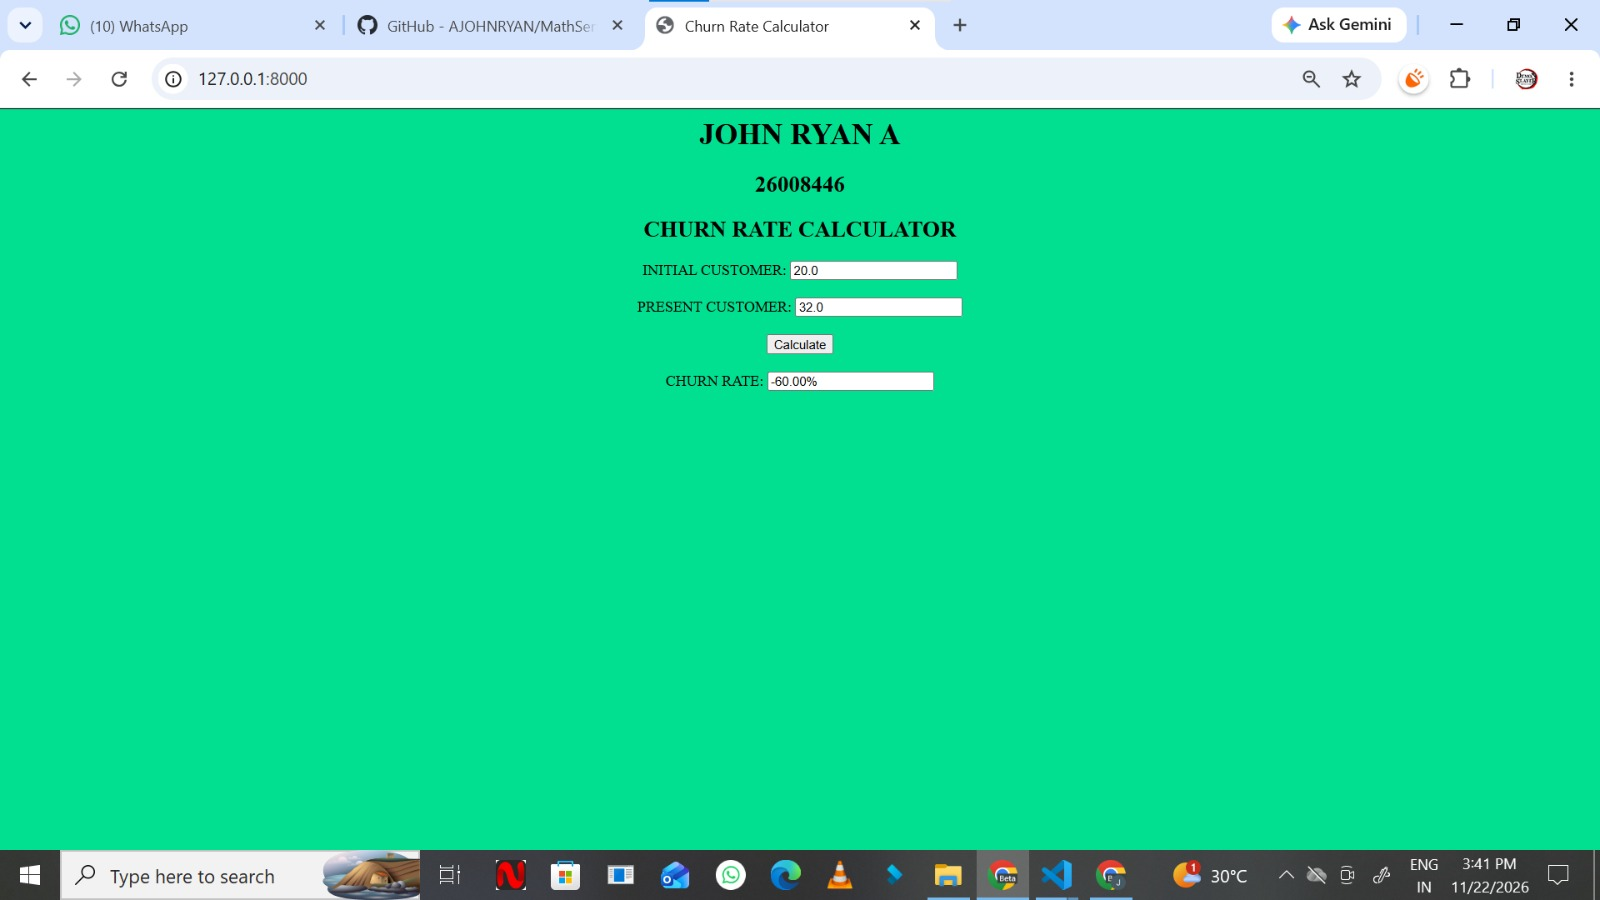
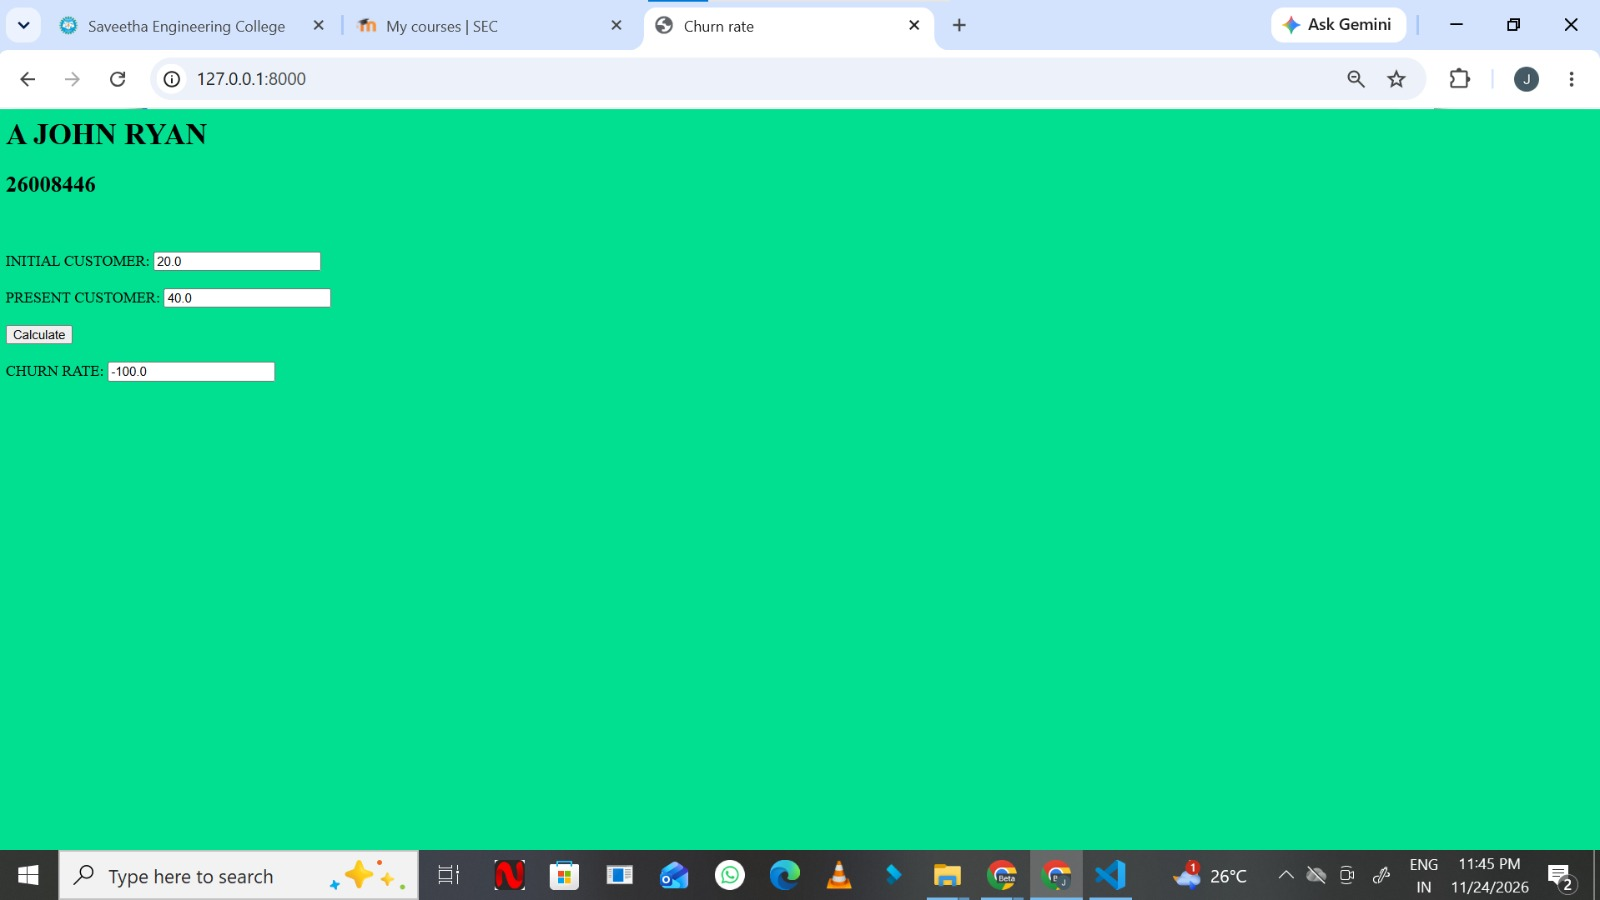
Success

diff --git a/Ryan/mathapp/templates/mathapp/math.html b/Ryan/mathapp/templates/mathapp/math.html
@@ -1,45 +1,19 @@
 <html>
-<head>
-    <title>Churn Rate Calculator</title>
-</head>
-
-<body bgcolor="Green 900">
-
-    <center>
-        <h1>JOHN RYAN A</h1>
+    <head>
+        <title>Churn rate</title>
+    </head>
+    <body bgcolor="Green 900">
+        <h1>A JOHN RYAN</h1>
         <h2>26008446</h2>
-
-        <h2>CHURN RATE CALCULATOR</h2>
-
         <form method="POST">
-            {% csrf_token %}
-
+            {%csrf_token %}<br><br>
             <label>INITIAL CUSTOMER:</label>
-            <input type="number" name="initial_cust"
-                   value="{{ l }}" min="0" step="any" required>
-
-            <br><br>
-
+            <input type="number" name="initial_cust" value="{{l}}" ><br><br>
             <label>PRESENT CUSTOMER:</label>
-            <input type="number" name="present_cust"
-                   value="{{ i }}" min="0" step="any" required>
-
-            <br><br>
-
-            <input type="submit" value="Calculate">
-
-            <br><br>
-
+            <input type="number" name="present_cust" value="{{i}}" ><br><br>
+            <input type="submit" value="Calculate"><br><br>
             <label>CHURN RATE:</label>
-            <input type="text"
-                   value="{% if churnrate != None %}{{ churnrate|floatformat:2 }}%{% endif %}"
-                   readonly>
-
-            <br><br>
-
-
+            <input type="number" value="{{churnrate}}"><br><br>
         </form>
-    </center>
-
-</body>
+    </body>
 </html>

diff --git a/README.md b/README.md
@@ -46,49 +46,23 @@ Publish the website in Localhost.
 math.html 
 
 <html>
-<head>
-    <title>Churn Rate Calculator</title>
-</head>
-
-<body bgcolor="Green 900">
-
-    <center>
-        <h1>JOHN RYAN A</h1>
+    <head>
+        <title>Churn rate</title>
+    </head>
+    <body bgcolor="Green 900">
+        <h1>A JOHN RYAN</h1>
         <h2>26008446</h2>
-
-        <h2>CHURN RATE CALCULATOR</h2>
-
         <form method="POST">
-            {% csrf_token %}
-
+            {%csrf_token %}<br><br>
             <label>INITIAL CUSTOMER:</label>
-            <input type="number" name="initial_cust"
-                   value="{{ l }}" min="0" step="any" required>
-
-            <br><br>
-
+            <input type="number" name="initial_cust" value="{{l}}" ><br><br>
             <label>PRESENT CUSTOMER:</label>
-            <input type="number" name="present_cust"
-                   value="{{ i }}" min="0" step="any" required>
-
-            <br><br>
-
-            <input type="submit" value="Calculate">
-
-            <br><br>
-
+            <input type="number" name="present_cust" value="{{i}}" ><br><br>
+            <input type="submit" value="Calculate"><br><br>
             <label>CHURN RATE:</label>
-            <input type="text"
-                   value="{% if churnrate != None %}{{ churnrate|floatformat:2 }}%{% endif %}"
-                   readonly>
-
-            <br><br>
-
-
+            <input type="number" value="{{churnrate}}"><br><br>
         </form>
-    </center>
-
-</body>
+    </body>
 </html>
 
 views.py
@@ -145,3 +119,4 @@ urlpatterns = [
 ![alt text](image1.jpeg)
 ## RESULT:
 The the web page to calculate Churn Rate using server-side scripts is created successfully.
+
